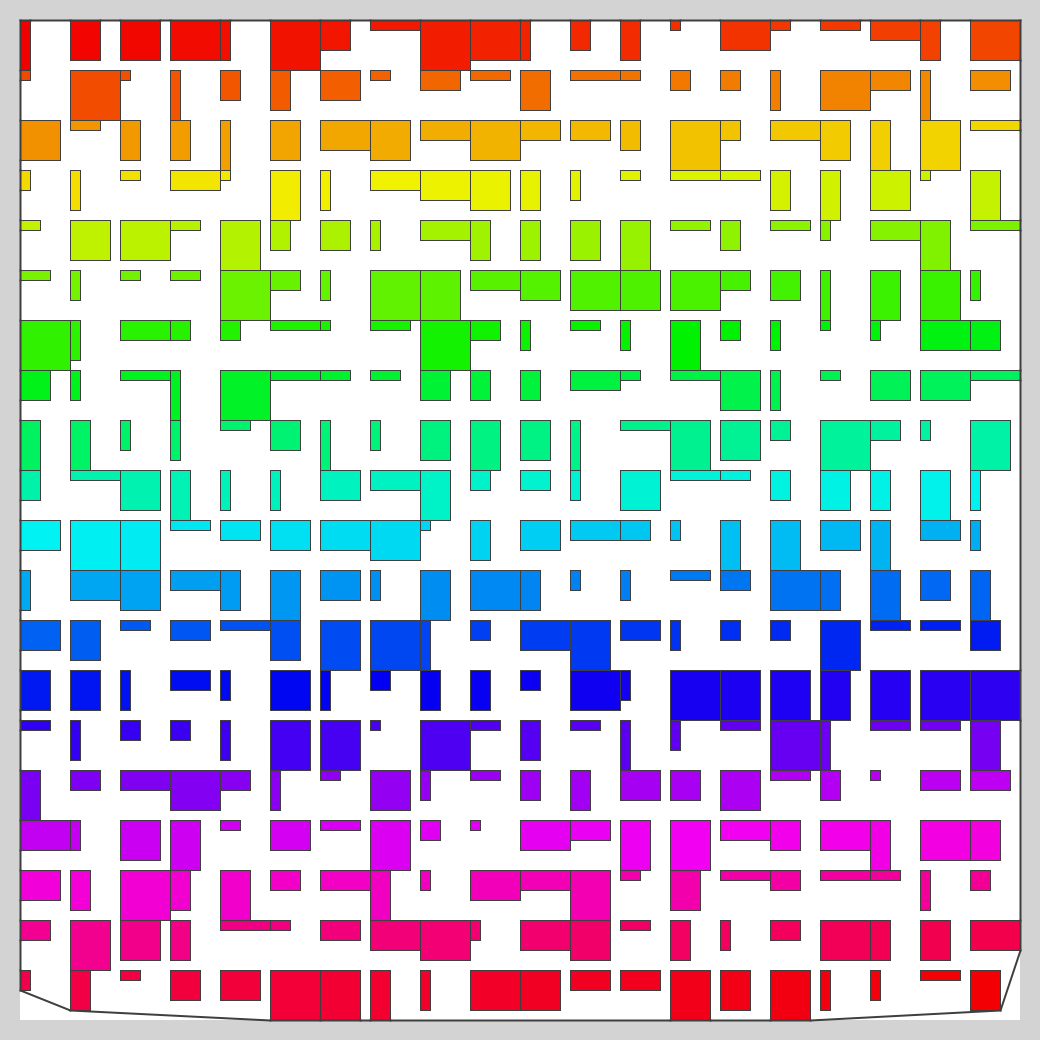
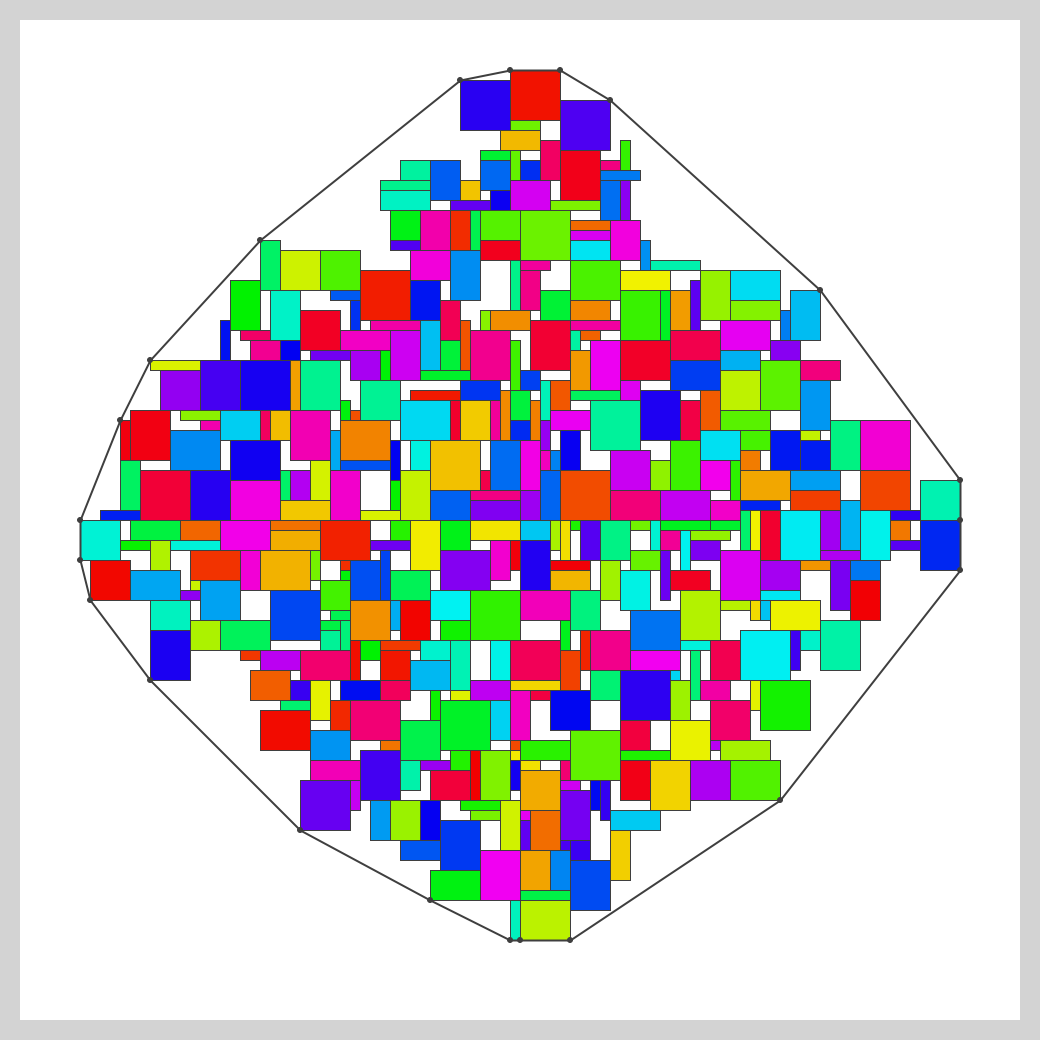
雑なテストプログラムで評価した．

diff --git a/RPP/tester/Tester.java b/RPP/tester/Tester.java
@@ -32,14 +32,18 @@ public class Tester {
                     g2.drawRect(posX[i] * 10 + 20, posY[i] * 10 + 20, w[i] * 10, h[i] * 10);
                 }
 
-                BasicStroke wideStroke = new BasicStroke(2.0f);
-                g2.setStroke(wideStroke);
+                g2.setStroke(new BasicStroke(2.0f));
                 for (int i = 0; i < ch.size(); i++) {
                     int x1 = ch.getX(i) * 10 + 20;
                     int y1 = ch.getY(i) * 10 + 20;
                     int x2 = ch.getX((i + 1) % ch.size()) * 10 + 20;
                     int y2 = ch.getY((i + 1) % ch.size()) * 10 + 20;
                     g2.drawLine(x1, y1, x2, y2);
+                }
+
+                g2.setStroke(new BasicStroke(1.0f));
+                for (int i = 0; i < ch.size(); i++) {
+                    g2.fillOval(ch.getX(i) * 10 + 17, ch.getY(i) * 10 + 17, 6, 6);
                 }
 
                 g.drawImage(bi, 0, 0, WIDTH, HEIGHT, null);

diff --git a/RPP/README.md b/RPP/README.md
@@ -43,6 +43,18 @@ $ java -jar tester.jar -exec <command> -seed <seed>
 ```
 
 ## 目安？
-そのうちトライします．
+解き方が分からないので，中央に寄せるだけのプログラムを書いた．これでも半分以下の面積にはできた（最大面積は10000）．頑張れば4000ぐらいにはできそう．  
+1)  4797.5
+2)  5078.5
+3)  4852.5
+4)  4857.0
+5)  4829.0
+6)  4766.5
+7)  4976.5
+8)  5040.5
+9)  4930.0
+10) 4857.5  
+  
+![1.png](image/1.png)
 
 ##  参考文献
